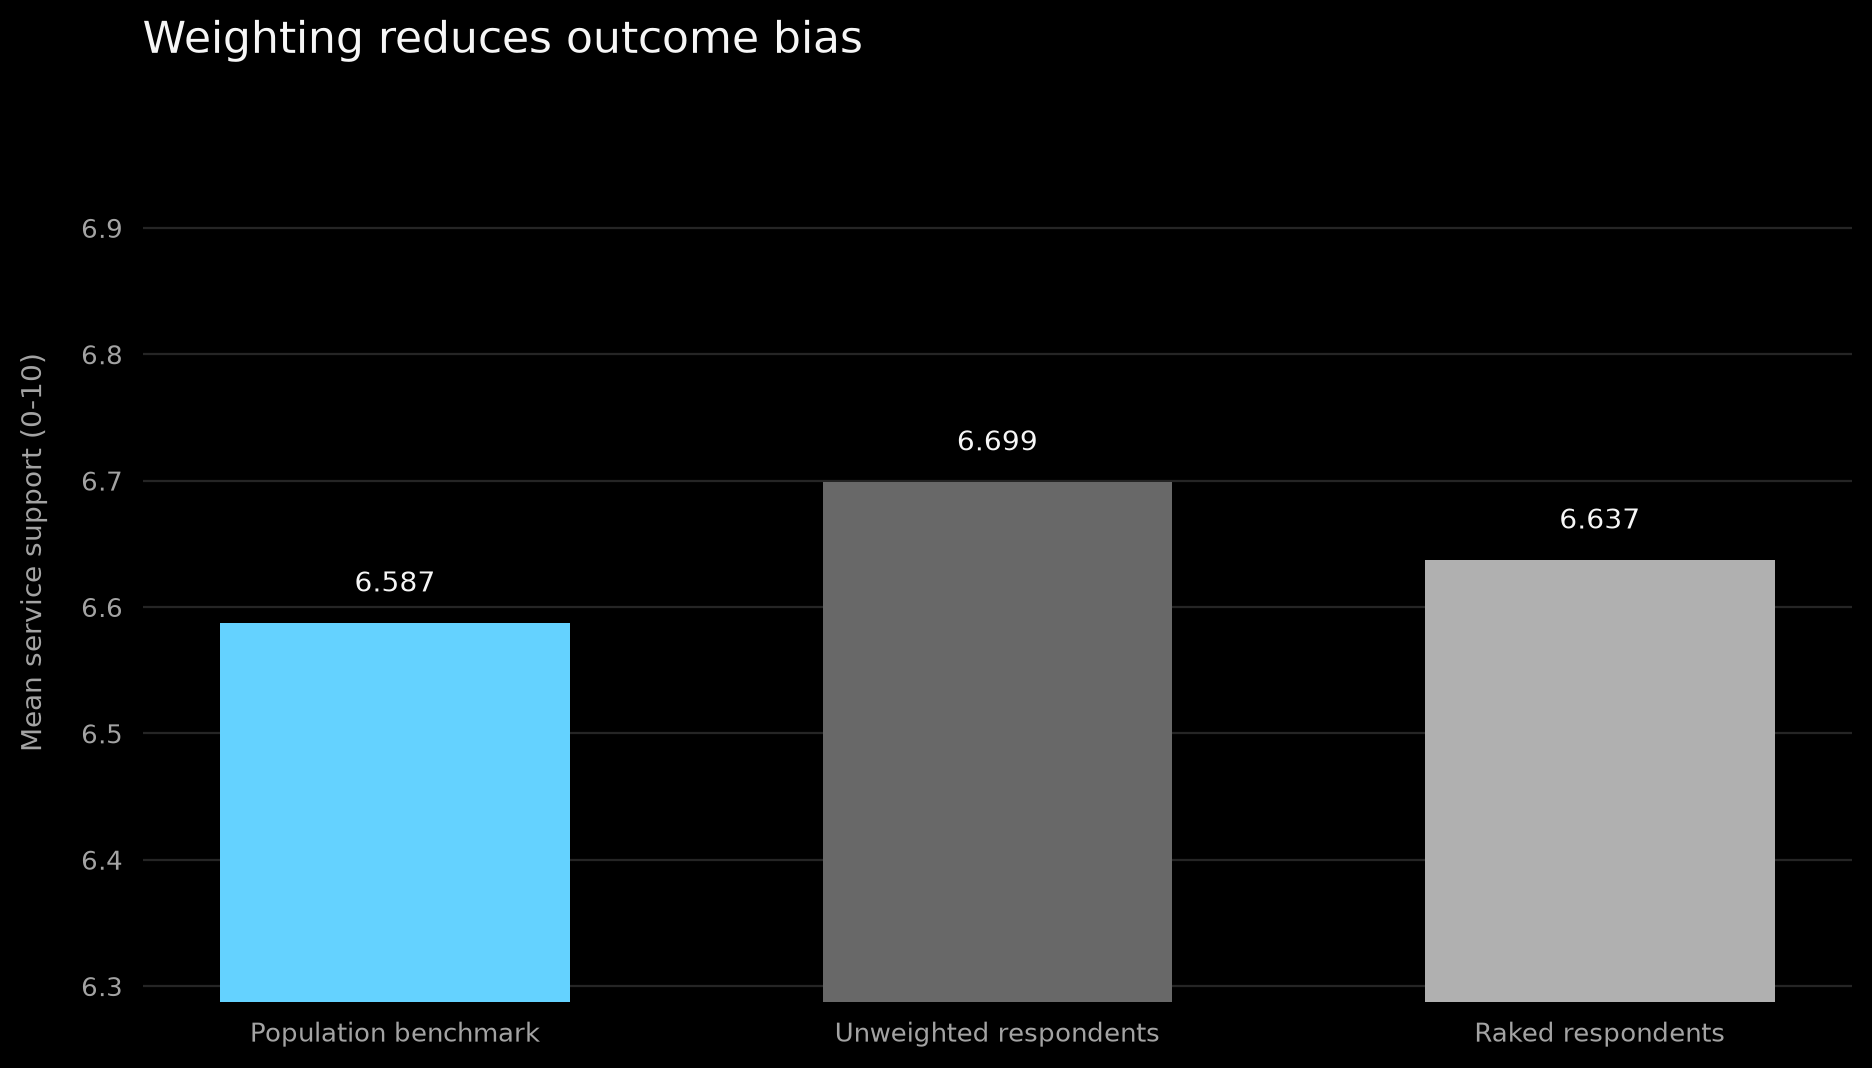
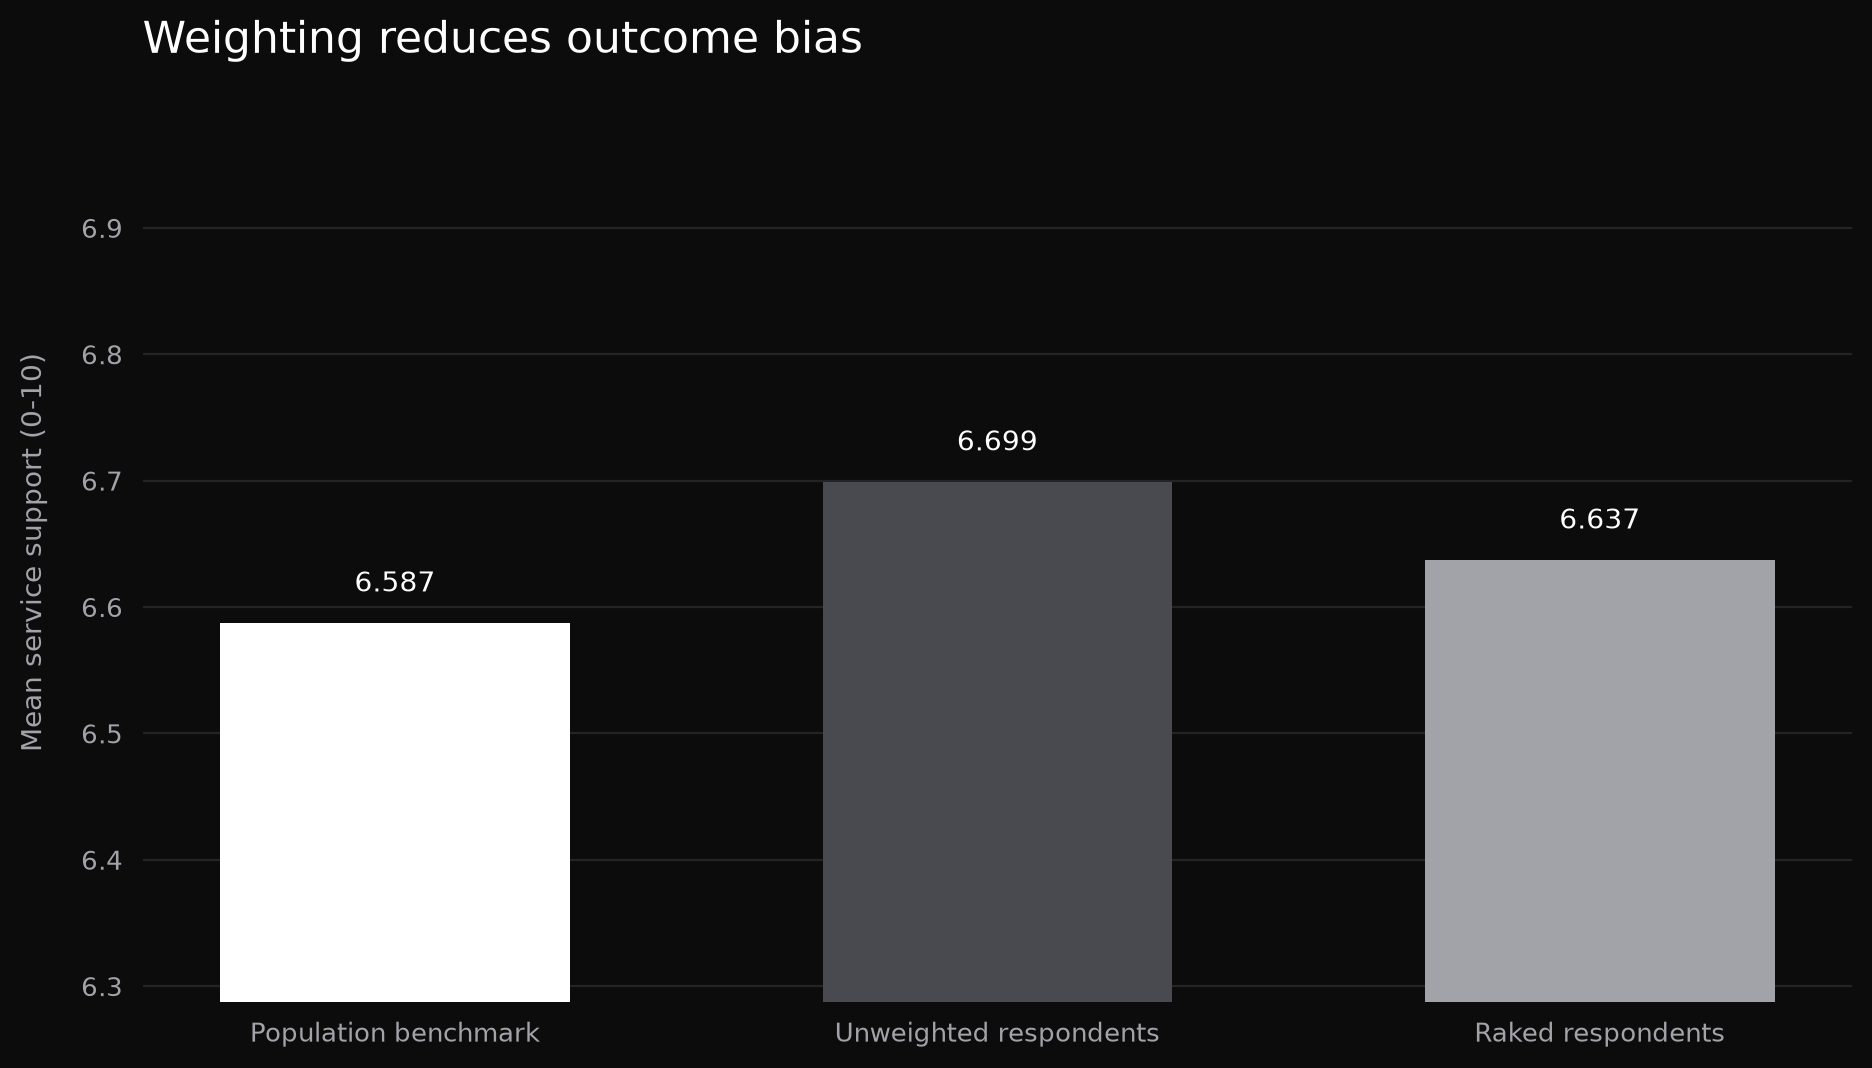
Align report figures with portfolio palette

Changed region(s): [[0.4338, 0.4326, 0.6506, 0.9579], [0.0929, 0.5562, 0.3098, 0.9579]]

diff --git a/analysis_core.py b/analysis_core.py
@@ -16,7 +16,7 @@ POPULATION_SIZE, SAMPLE_SIZE, SEED = 50_000, 6_000, 20260812
 AGE_BANDS = ["18-24", "25-34", "35-44", "45-54", "55-64", "65-74"]
 REGIONS = ["London", "South", "Midlands", "North", "Scotland/Wales"]
 GENDERS = ["Woman", "Man", "Non-binary / other"]
-BG, TEXT, MUTED, LINE, BAR, ACCENT = "#000000", "#f6f6f6", "#a3a3a3", "#393939", "#686868", "#64d2ff"
+BG, TEXT, MUTED, LINE, BAR, ACCENT = "#0C0C0D", "#FFFFFF", "#A2A2A9", "#313135", "#494950", "#FFFFFF"
 
 
 def run_git(*args):
@@ -184,7 +184,7 @@ def create_figures(response, composition, estimates):
     legend=ax.legend(frameon=False); [t.set_color(MUTED) for t in legend.get_texts()]
     fig.tight_layout(pad=1.6); fig.savefig(FIGURE_DIR / "composition_deviation_before_after_weighting.png", dpi=200, facecolor=BG, bbox_inches="tight"); plt.close(fig)
     fig, ax = plt.subplots(figsize=(9.6, 5.6)); style(ax, "y")
-    labels=estimates.estimate.tolist(); values=estimates.mean_service_support.tolist(); colors=[ACCENT, BAR, "#b0b0b0"]
+    labels=estimates.estimate.tolist(); values=estimates.mean_service_support.tolist(); colors=[ACCENT, BAR, MUTED]
     bars=ax.bar(labels, values, color=colors, width=.58); ax.set_ylim(min(values)-.3, max(values)+.3); ax.set_ylabel("Mean service support (0-10)", labelpad=12)
     ax.set_title("Weighting reduces outcome bias", loc="left", pad=18, fontsize=16, fontweight=400, color=TEXT)
     for bar,value in zip(bars,values): ax.text(bar.get_x()+bar.get_width()/2,value+.025,f"{value:.3f}",ha="center",color=TEXT)
